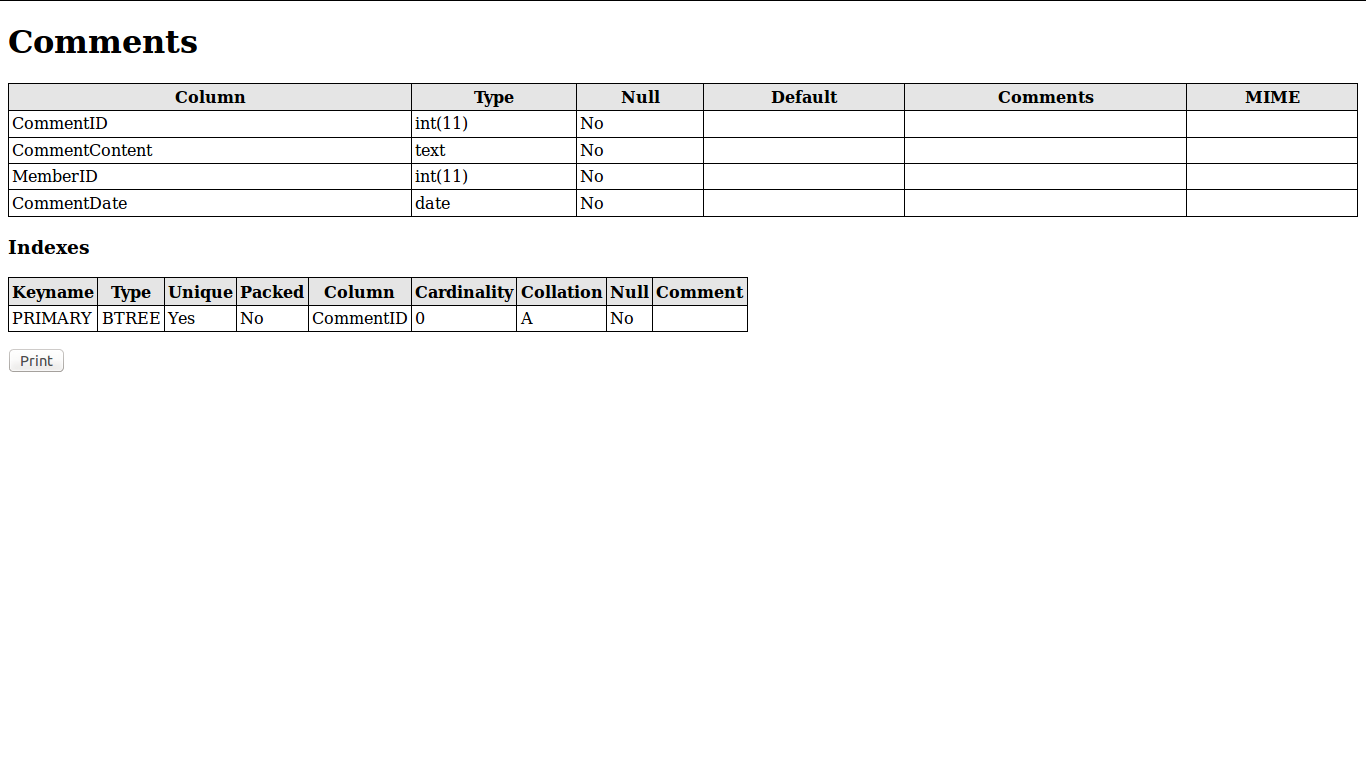
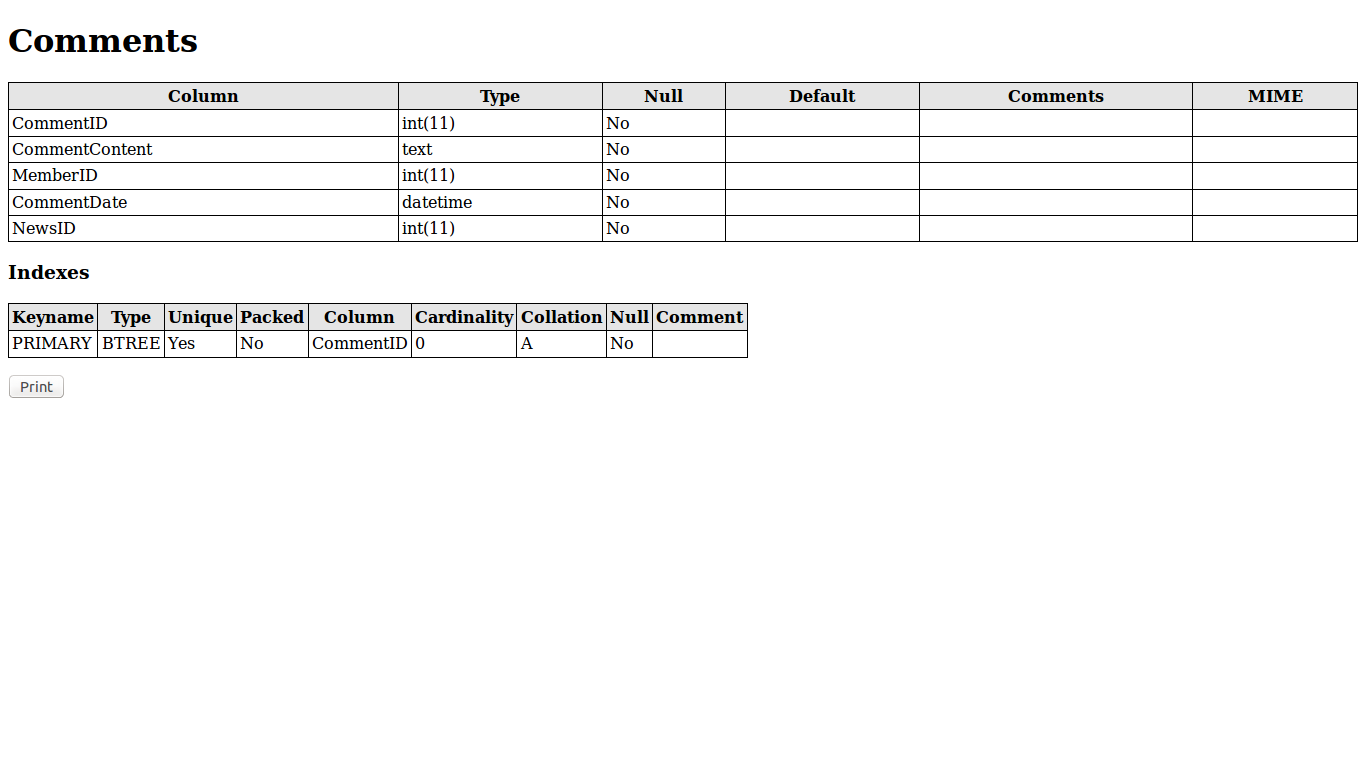
Add ability to display comment from database

diff --git a/readNews.php b/readNews.php
@@ -100,8 +100,9 @@
                         <img src="http://graph.facebook.com/zuck/picture?type=normal" class="media-object img-circle">
                     </a>
                     <div class="media-body">
-                        <textarea class="form-control" rows="5" width="100%"></textarea>
-                        <button type="button" class="btn btn-primary pull-right" style="margin-top: 5px; margin-bottom: 5px;">Submit</button>
+                        <textarea class="form-control" rows="5" width="100%" name="CommentContent"></textarea>
+                        <input type="submit" class="btn btn-primary pull-right" style="margin-top: 5px; margin-bottom: 5px; width: 80px;   " value="Submit">
+                        <!-- <button type="button" class="btn btn-primary pull-right" style="margin-top: 5px; margin-bottom: 5px;">Submit</button> -->
                     </div>
                 </div>
                 <!-- Comment the mockup -->
@@ -125,6 +126,10 @@
                 
                 <? //$result = mysql_query("SELECT * FROM Comments WHERE NewsID = '$NewsID'");
                 $result = mysql_query("SELECT Member.MemberID, Member.MemberName, Comments.CommentID, Comments.CommentContent, Comments.CommentDate FROM Member INNER JOIN Comments ON Member.MemberID = Comments.MemberID WHERE Comments.NewsID = '$NewsID'");
+                $num = mysql_num_rows($result);
+                if($num <= 0){
+                    echo '<div class="panel panel-default panel-body"><i align="center">No comments</i></div>';
+                }
                 while ($query = mysql_fetch_array($result)){?>
                 <div class="panel panel-default">
                     <div class="panel-body">

diff --git a/displayNews.php b/displayNews.php
@@ -28,7 +28,7 @@
                         <div class="panel-body">
                             <? echo $query['NewsContentSubString'] ?>
                         </div>
-                        <? $result = mysql_query("SELECT Count(NewsID) FROM Comments WHERE NewsID = '<? echo $query[NewsID] ?>'")?>
+                        <!--<? //$result = mysql_query("SELECT Count(NewsID) FROM Comments WHERE NewsID = '<? echo $query[NewsID] ?>'")?> -->
                         <div class="panel-footer">
                         <span class="label label-primary"><span class="glyphicon glyphicon-comment"></span> 0</span>
                             <a href="readNews.php?NewsID=<? echo $query['NewsID'] ?>">
